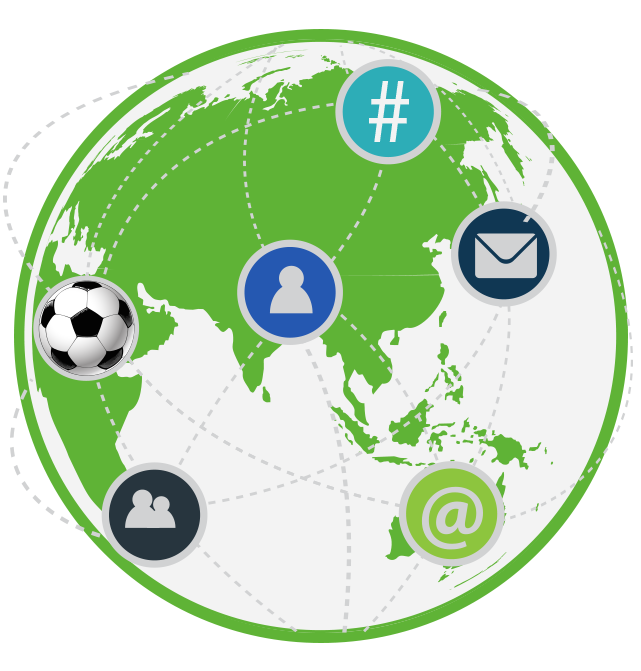
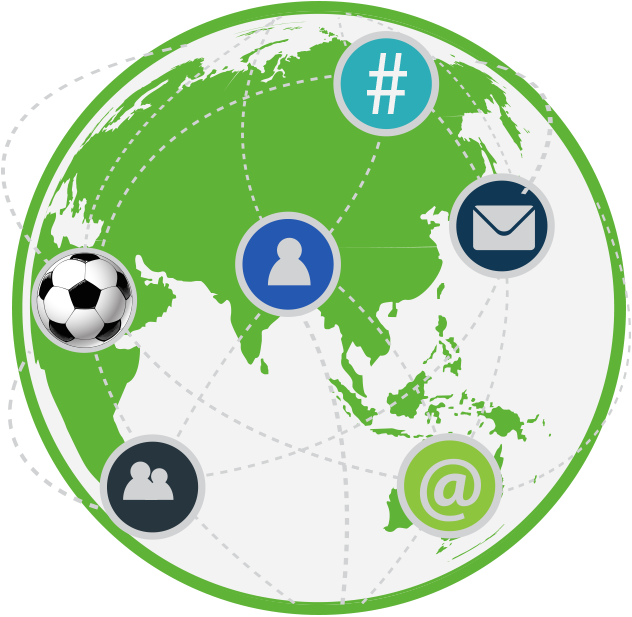
Adding more, and styling

diff --git a/index-2.html b/index-2.html
@@ -82,7 +82,7 @@
             <div class="row">
               <div class="col-md-4">
                 <div class="icon-holder">
-                  <img src="img/globe-4.png" alt="" />
+                  <img class="animated fadeInDown delay-5s" src="img/globe-4.png" alt="" />
                   <!-- <i class="fa fa-globe animated fadeInUp delay-1s"></i> -->
                 </div>
                 <h2>Global Sports Network</h2>
@@ -92,7 +92,7 @@
               </div>
               <div class="col-md-4">
                 <div class="icon-holder">
-                  <img src="img/trending-2.png" alt="" />
+                  <img class="animated fadeInDown delay-5s" src="img/trending-2.png" alt="" />
                   <!-- <img id="trending-icon" class="animated fadeInUp delay-1s" style="width: 80px" src="img/trending.png" alt="" /> -->
                   <!-- <i class="fa fa-laptop"></i> -->
                 </div>
@@ -103,7 +103,7 @@
               </div>
               <div class="col-md-4">
                 <div class="icon-holder">
-                  <img src="img/work-2.png" alt="" />
+                  <img class="animated fadeInDown delay-5s" src="img/work-2.png" alt="" />
               <!--     <i class="fa fa-briefcase animated fadeInUp delay-1s"></i> -->
                 </div>
                 <h2>Work in the Industry</h2>
@@ -263,16 +263,15 @@
     <h2><a href="#">We are hiring</a></h2>
     <a class="sq-btn" href="#">See Available Positions</a>
   </section>
-
-
-  <section class="map">
+  <!-- <section class="map">
     <div class="row text-center">
       <div class="col-md-offset-1 col-md-4">
         <h1>We are close to the 21st Amendment</h1>
         <h1>300 Brannan St. </h1>
       </div>
     </div>
-  </section>
+  </section> -->
+
 
   <section class="final-cta" style="background: white;">
       <div class="container-fluid">

diff --git a/css/queries.css b/css/queries.css
@@ -29,7 +29,15 @@
 	.legals { text-align: center; margin: 0; padding: 0; }
 	.credit { text-align: center; }
 	.iphone { margin-bottom: 30px;}
+	.features-wrapper img {
+		 width: 200px;
+	}
+	.features-wrapper .col-md-4 {
+		margin: 20px 0!important;
+		padding: 50px 0!important;
+	}
 	.video-copy {  margin-right: 0; margin-left: 0!important; width: 90%!important; margin: 0 auto!important; padding-top: 20px!important;}
+
 }
 
 @media (max-width: 991px) {
@@ -64,7 +72,7 @@
 }
 @media (min-width: 991px) {
 	input.input-ios {
-		min-width: 500px!important;
+		min-width: 470px!important;
 	}
 }
 
@@ -80,5 +88,15 @@
 @media (max-width: 400px) {
 input.squad-ios {
 	margin-top: 30px!important;
+	}
+}
+
+@media (max-width: 1250px) {
+	input.squad-ios {
+		background: red!important;
+		padding: 30px!important;
+	}
+	input.input-ios {
+		width: 40%!important;
 	}
 }

diff --git a/css/squad-v2.css b/css/squad-v2.css
@@ -65,12 +65,33 @@ section.subscribe h1 {
   font-size: 30px;
 }
 
+a.features-link {
+  font-size: 20px;
+}
+
 section.features p {
   margin: 0 auto;
+  font-size: 16px;
+  color: black;
+  height: 90px;
   /* width: 80%; */
 }
+.team h2 {
+  border-bottom: 1px solid #f3f3f3;
+}
+section.features h2 {
+font-size: 28px;
+margin-top: 25px;
+padding-top: 20px;
+}
 section.features img {
-  width: 250px;
+  max-width: 70%;
+}
+
+.trending {
+  background: red;
+  
+
 }
 
 span.circle {
@@ -135,10 +156,12 @@ span.circle i {
   color: black!important;
   text-align: center;
   font-weight: bold;
+  border: 2px solid black!important;
 }
 input.squad-ios {
   background: #5fb336!important;
   width: 140px!important;
+  border: 1px solid black!important;
   font-size: 17px;
   padding: 17px 20px!important;
 }

diff --git a/css/styles.css b/css/styles.css
@@ -331,4 +331,9 @@ Waypoints
 .bounceInLeft, .bounceInRight, .fadeInUp, .fadeInUpDelay, .fadeInDown, .fadeInUpD, .fadeInLeft, .fadeInRight { visibility: visible; }
 .delay-05s { animation-delay: 0.5s; -webkit-animation-delay: 0.5s; }
 .delay-1s { animation-delay: 1s; -webkit-animation-delay: 1s; }
+.delay-3s { animation-delay: 3s; -webkit-animation-delay: 1s; }
+.delay-4s { animation-delay: 3s; -webkit-animation-delay: 1s; }
+.delay-5s { animation-delay: 3s; -webkit-animation-delay: 1s; }
+.delay-6s { animation-delay: 3s; -webkit-animation-delay: 1s; }
+.delay-7s { animation-delay: 3s; -webkit-animation-delay: 1s; }
 .wp3 { background: url('../img/fans-2.jpg') no-repeat center center; background-position: 200px 10px; height: 100%; }
